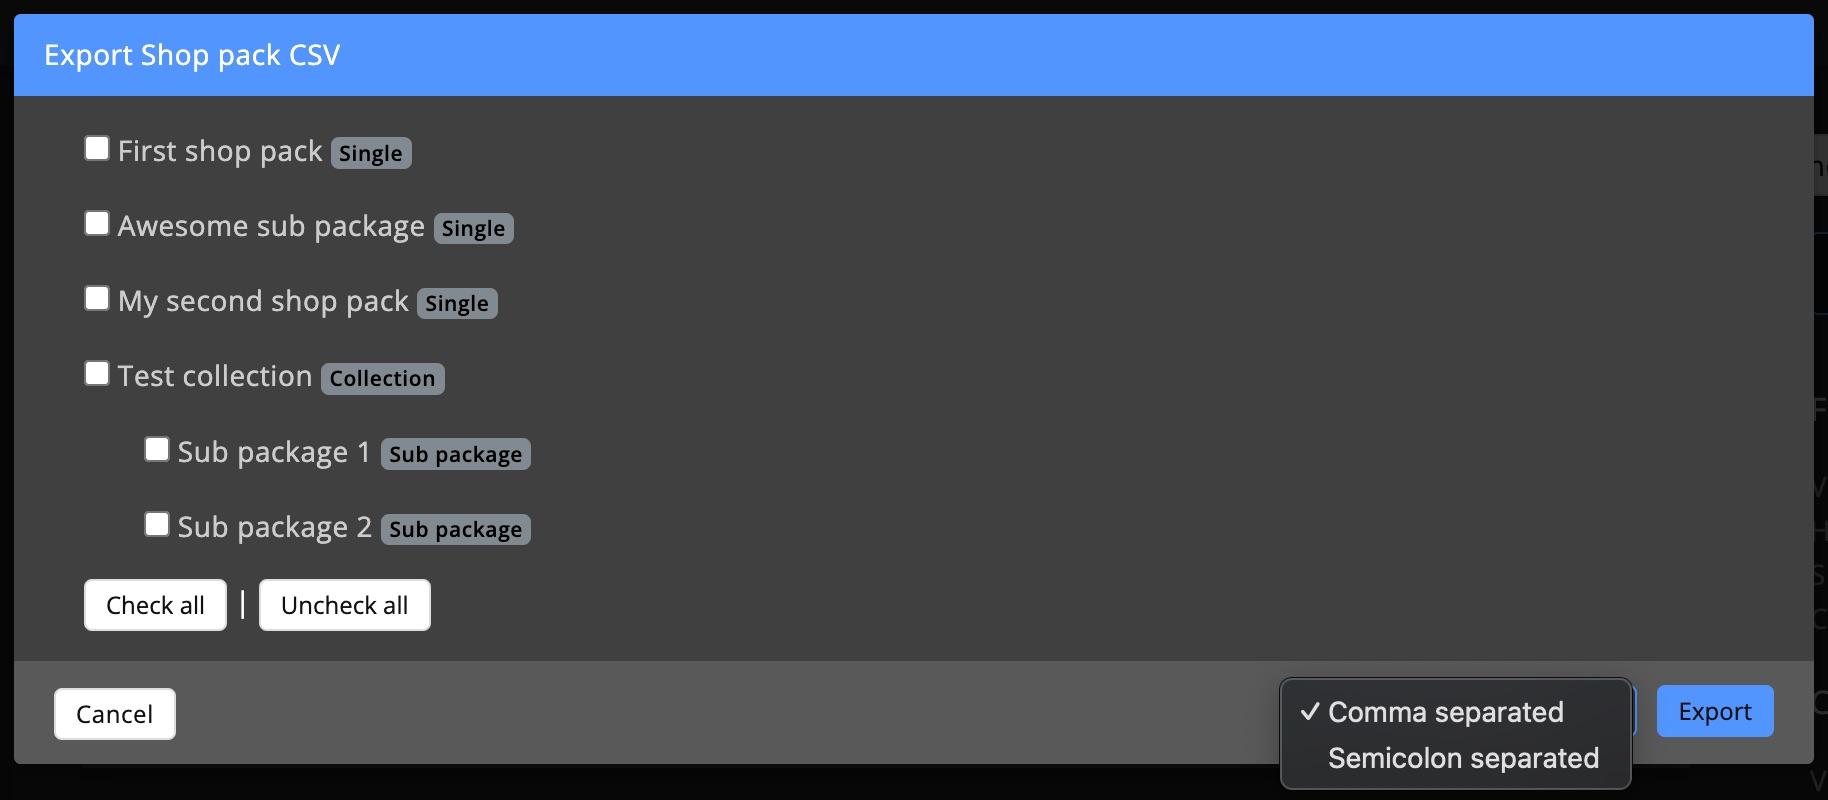
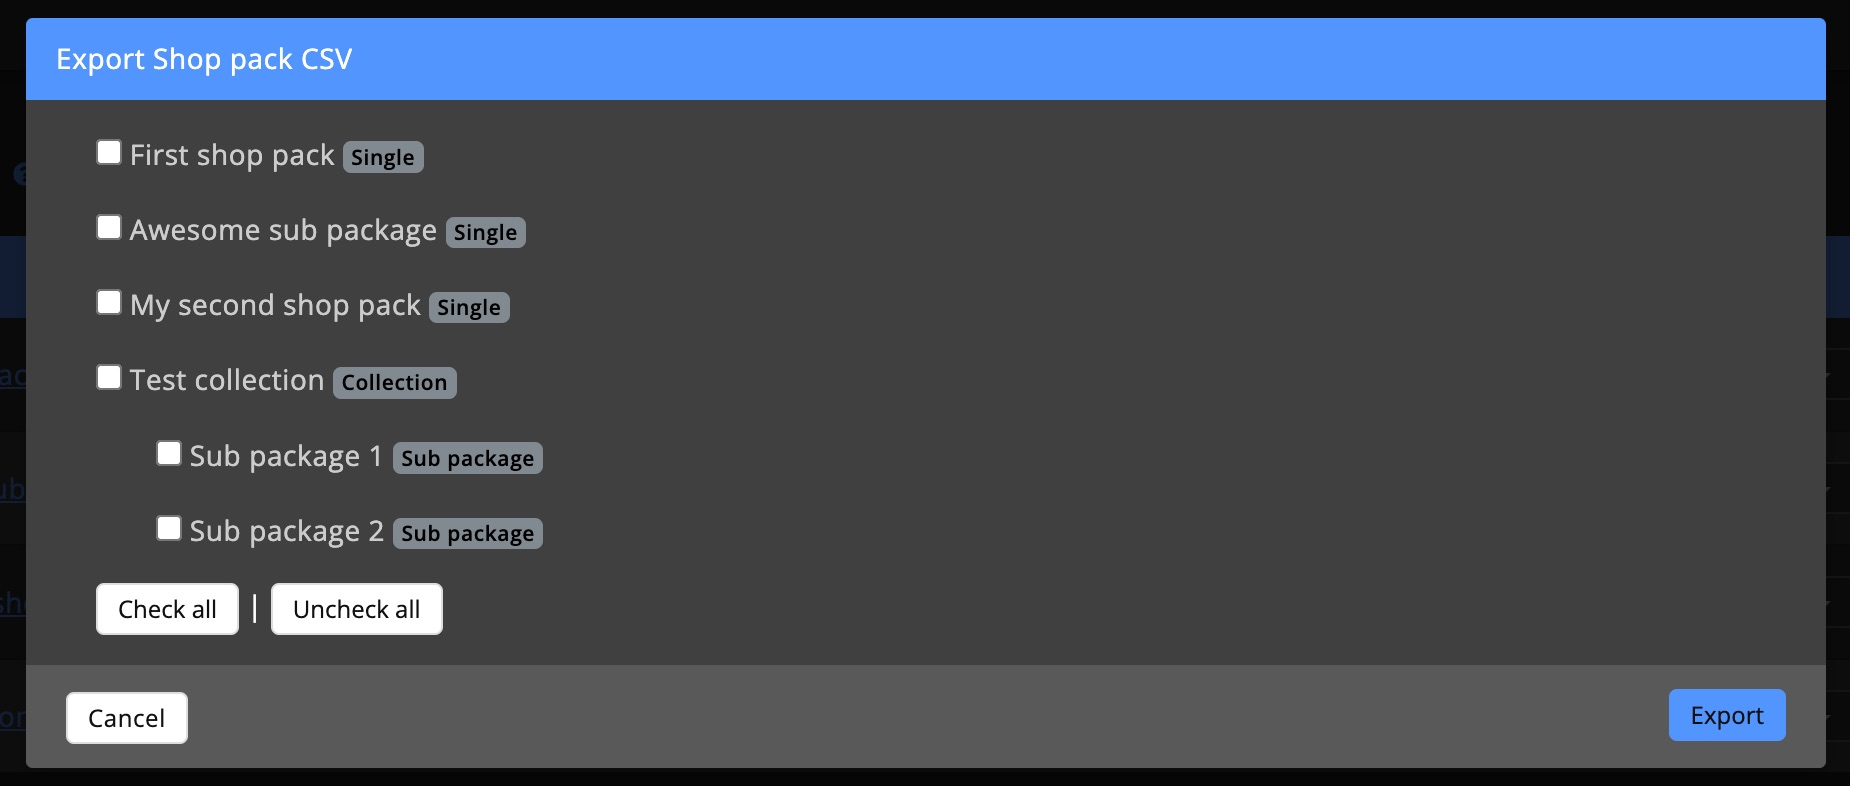
remove reference to export separator

Changed region(s): [[0.0, 0.0, 1.0, 1.0], [0.0624, 0.5496, 0.3118, 0.6107]]

diff --git a/Documentation/docs/dashboard/monetization/shop_packs.md b/Documentation/docs/dashboard/monetization/shop_packs.md
@@ -214,19 +214,10 @@ The export tool allows you to export one or multiple Shop packs (Single & Collec
 
 On the [Shop pack overview page](https://dash.gameserverapp.com/monetization/shop) on your dashboard, you can find the CSV export button in the top-right corner of the screen ([see screenshot above](#csv-tools)).
 
-:::tip Export with different separator
-Sometimes, Excel may not interpret the file correctly, causing information to overflow into the next columns. To fix this, you can choose how the export should be separated. The options are:
-
-- Comma-separated: `,`
-- Semicolon-separated: `;`
-:::
-
 ![Monetization - CSV tools - Export](/img/dashboard/monetization/shop_packs/csv_tool_export_1.jpg)
 
 ### Import
 When you’re finished editing the CSV export, you can upload the CSV file again. While GSA is processing your CSV file, no changes can be made to Shop packs. This prevents any issues from overlapping.
-
-The import process automatically detects what separator was used.
 
 On the [Shop pack overview page](https://dash.gameserverapp.com/monetization/shop) on your dashboard, you can find the CSV import button in the top-right corner of the screen ([see screenshot above](#csv-tools)).
 
